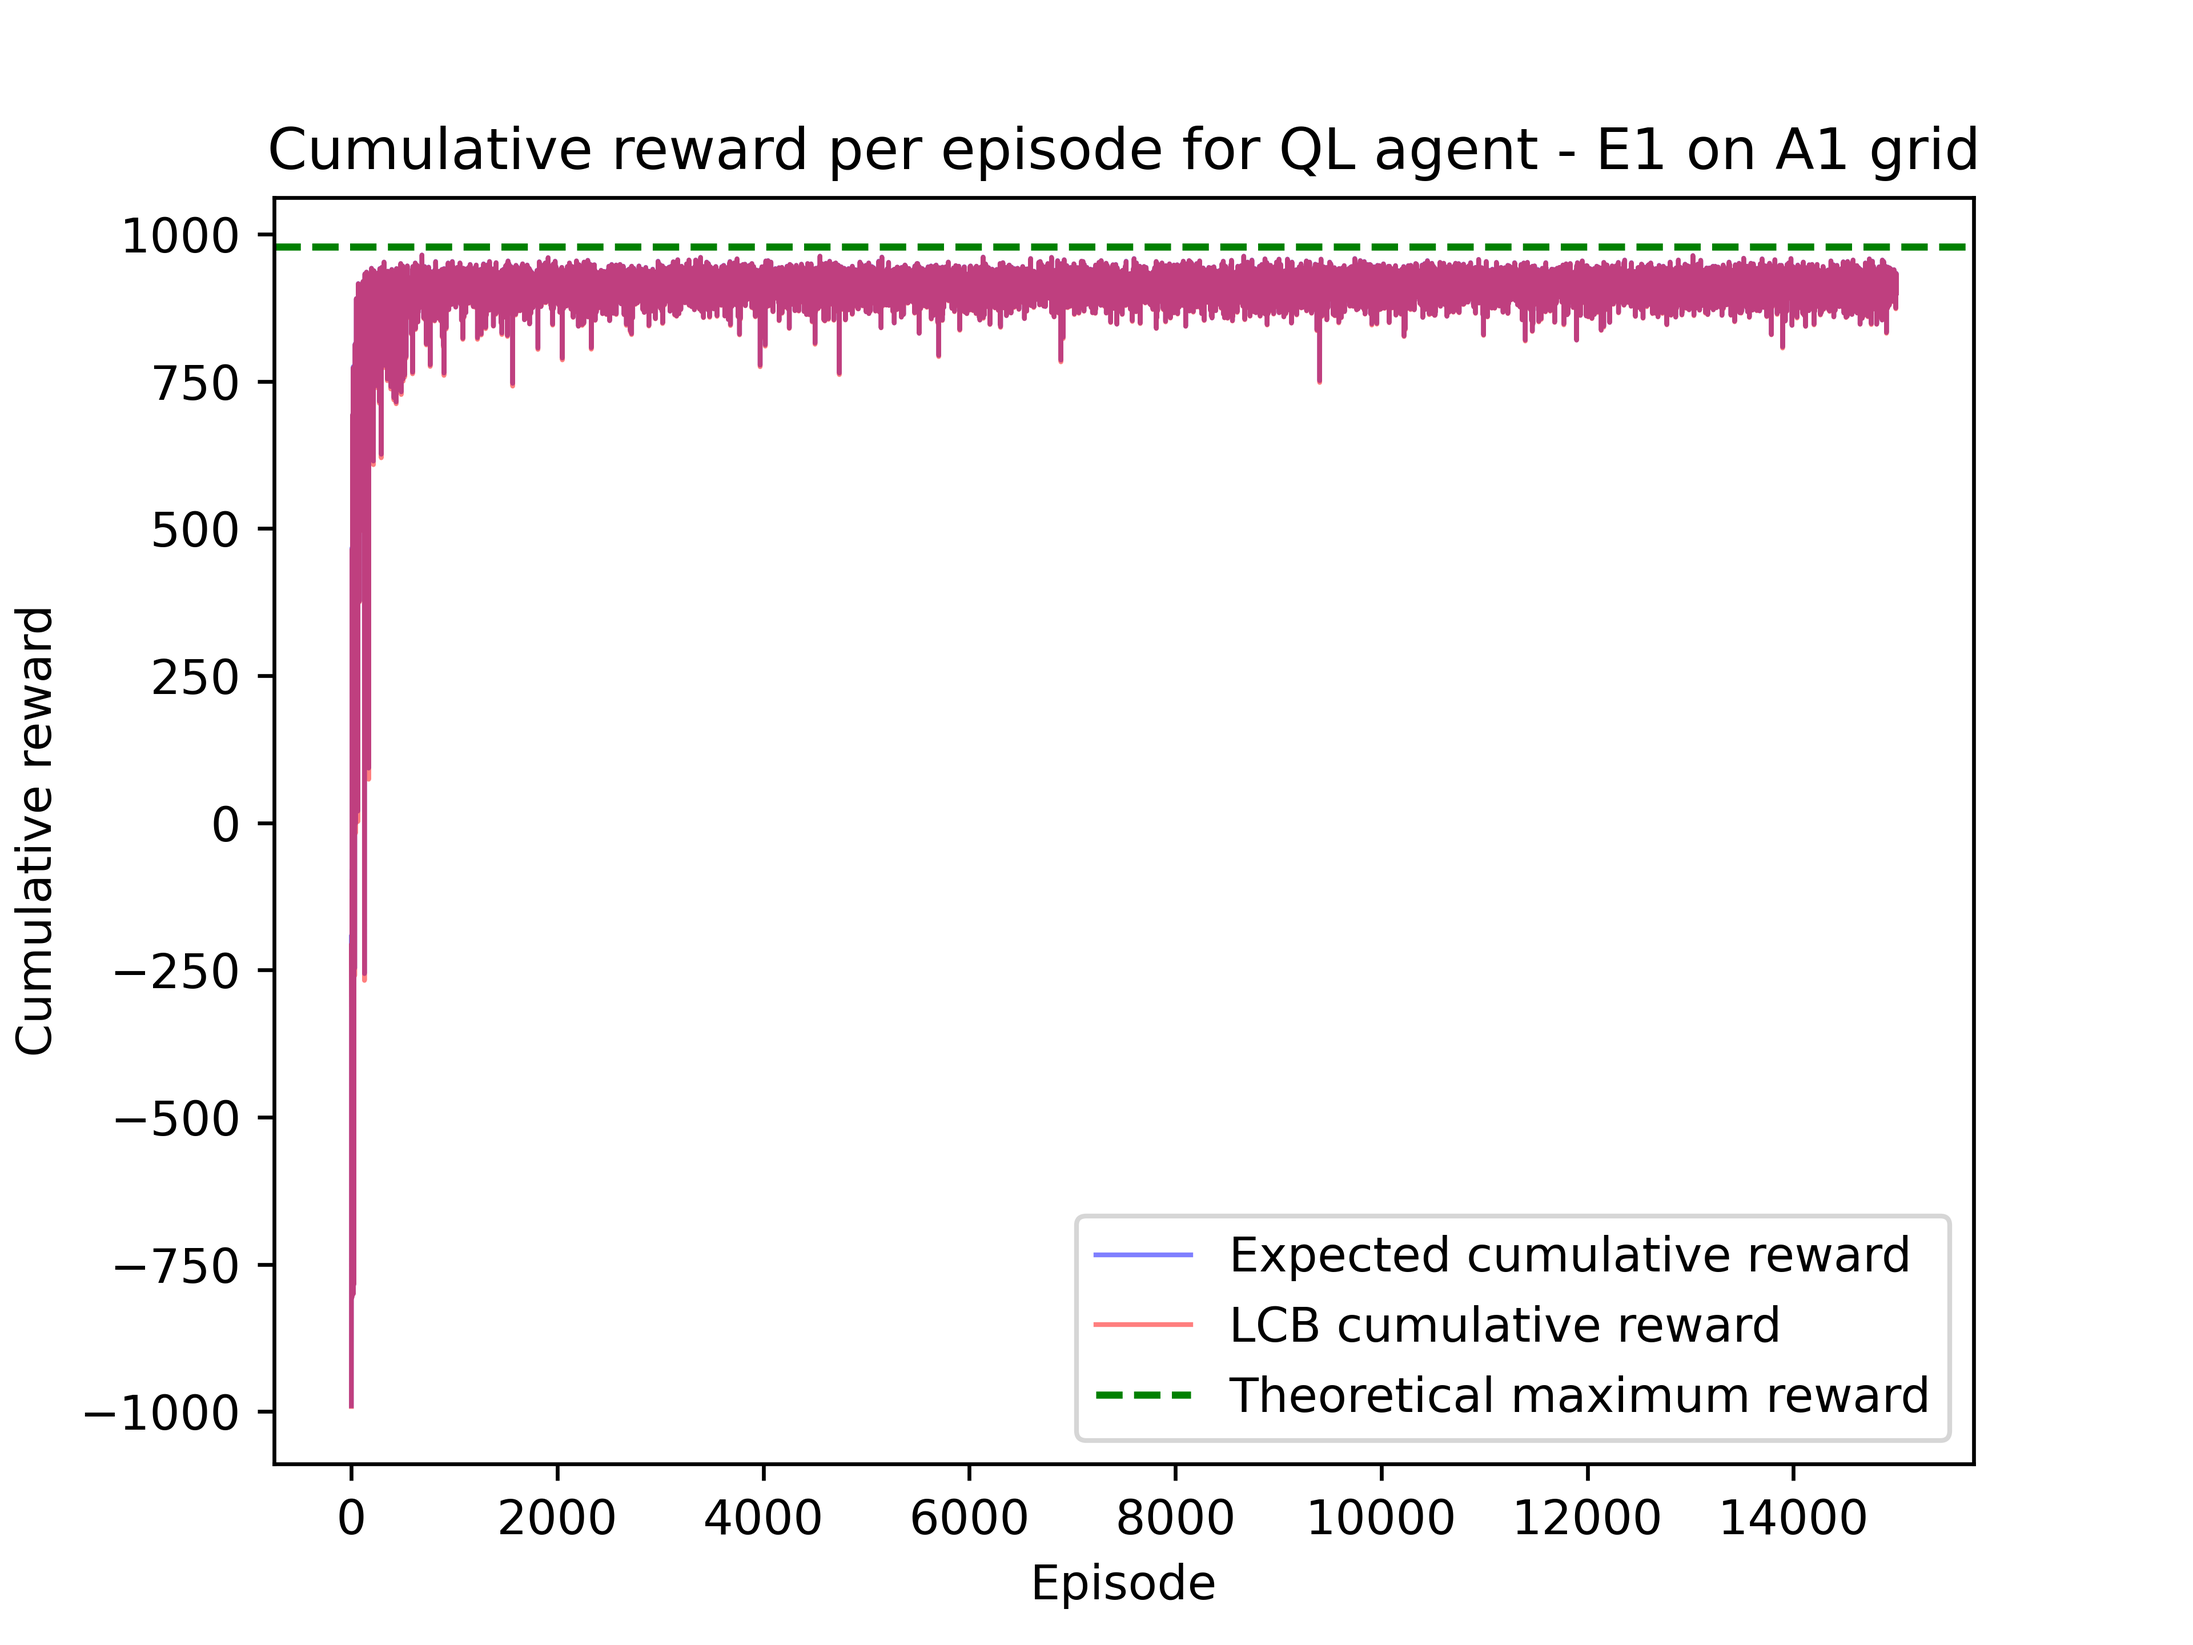
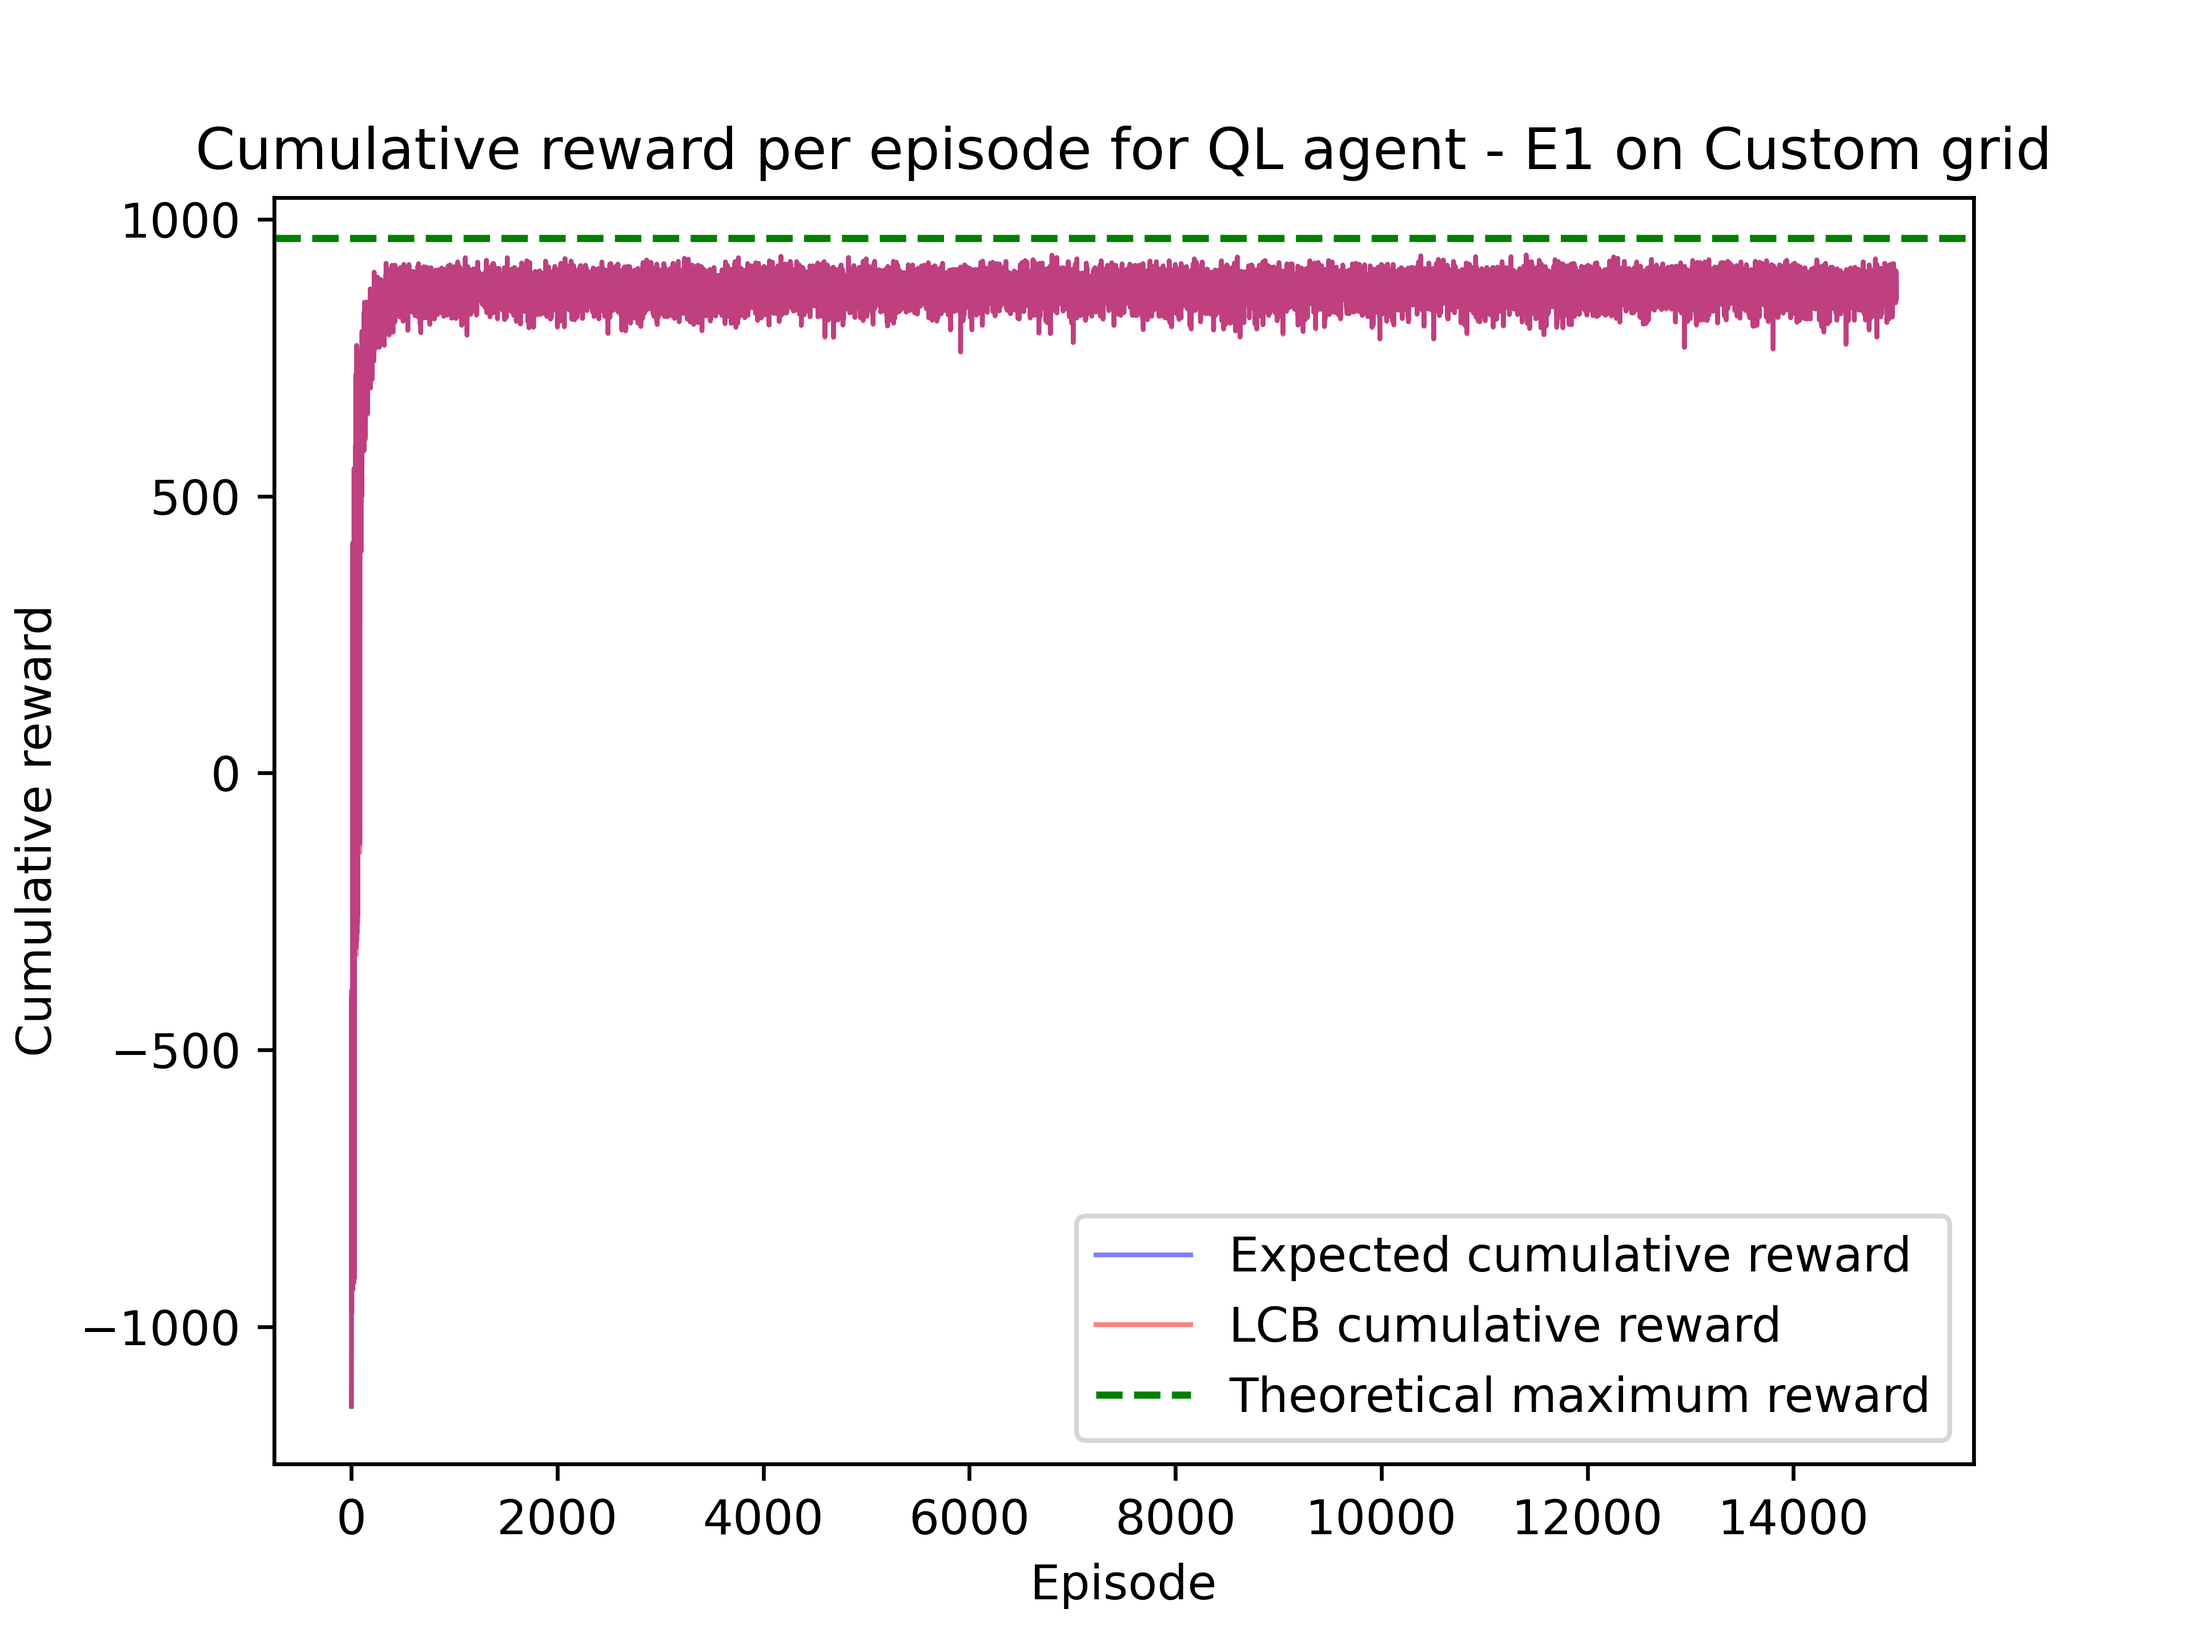
final evaluation metric file

diff --git a/evaluation_metrics.py b/evaluation_metrics.py
@@ -63,18 +63,6 @@ def run_evaluation(
         
         cumulative_rewards_for_all_episodes.append(cumulative_rewards_for_episode)
 
-    # Convert to numpy for faster computations
-    cumulative_rewards_for_all_episodes = np.array(cumulative_rewards_for_all_episodes)
-
-    # Compute per episode mean to get the expected cumulative reward
-    expected_cumulative_reward = np.mean(cumulative_rewards_for_all_episodes, axis=0) 
-
-    # Compute lower confidence bound.
-    z = 1.96
-    std = np.std(cumulative_rewards_for_all_episodes, axis=0, ddof=1)
-    half_width_interval = (z * std / np.sqrt(expected_cumulative_reward.shape[0]))
-    lower_bound_cumulative_reward = expected_cumulative_reward - half_width_interval
-
     # Minimal reward (or biggest cost is -5) --> minimal reward that could be obtained is -5 * number of steps per episode
     minimal_reward = -5 * iters
     # Maximal reward can be analytically computed for a given grid: maximal_reward = number of steps to reach the target * -1 + reward for reaching the target
@@ -93,6 +81,33 @@ def run_evaluation(
         algorithm = "QL"
     # Uppercase algorithm name, mainly for MC and DP
     algorithm = algorithm.upper()
+
+    diffs = []
+    for state, v_vals in vi_q_table.items():
+        # find best action under V
+        best_a = np.argmax(v_vals)
+        v_best = v_vals[best_a]
+        # get value of Q-table at that same action
+        if state not in q_table:
+            q_best = 0
+        else:
+            q_best = q_table[state][best_a]
+        # record absolute difference
+        diffs.append(abs(v_best - q_best))
+    # compute MAE
+    mae = np.mean(diffs)
+
+    # Convert to numpy for faster computations
+    cumulative_rewards_for_all_episodes = np.array(cumulative_rewards_for_all_episodes)
+
+    # Compute per episode mean to get the expected cumulative reward
+    expected_cumulative_reward = np.mean(cumulative_rewards_for_all_episodes, axis=0) 
+
+    # Compute lower confidence bound.
+    z = 1.96
+    std = np.std(cumulative_rewards_for_all_episodes, axis=0, ddof=1)
+    half_width_interval = (z * std / np.sqrt(expected_cumulative_reward.shape[0]))
+    lower_bound_cumulative_reward = expected_cumulative_reward - half_width_interval
 
     # Creating cumulative reward plot
     episodes = np.arange(1, cumulative_rewards_for_all_episodes.shape[1]+1)
@@ -113,8 +128,8 @@ def run_evaluation(
     max_low = np.max(lower_bound_cumulative_reward)
 
     # Saving all statistics to a CSV file
-    fieldnames = ['auc_exp', 'auc_low', 'max_exp', 'max_low', 'maximal_reward']
-    values = [auc_exp,  auc_low,  max_exp,  max_low,  maximal_reward]
+    fieldnames = ['auc_exp', 'auc_low', 'max_exp', 'max_low', 'maximal_reward', 'MAE']
+    values = [auc_exp,  auc_low,  max_exp,  max_low,  maximal_reward, mae]
     file_for_results = experiment_path + "numerical_results.csv"
     with open(file_for_results, 'w', newline='') as f:
         writer = csv.writer(f)
@@ -126,10 +141,6 @@ def run_evaluation(
     title = f"Policy heatmap for {algorithm} agent - {suffix}"
     image = plot_policy_heatmap(q_table, trained_agent.visit_counts, grid_.cells, title, show_image=False)
     image.savefig(experiment_path + "policy_heatmap.png", dpi=600)
-    # Optimal policy? Make sure that we check Q-table optimal policy on all positions of optimal path
-    # TODO: VI different approach --> how do we even evaluate this?
-    # Q-table comparison? with MAE?
-
 
 
 if __name__ == "__main__":
@@ -148,11 +159,22 @@ if __name__ == "__main__":
     else:
         print("Already in 'test' directory.")
 
+    # run_evaluation(
+    #     # Enironment-specific
+    #     grid="grid_configs/A1_grid.npy", sigma=0.02, gamma=0.9, reward_func=custom_reward_function, agent_start_pos_col=9, agent_start_pos_row=13,
+    #     # Agent-specific
+    #     algorithm="q_learning", epsilon=1, epsilon_min=0.1, delta=1e-6, alpha=0.1, episodes=15000, iters=500, early_stopping=-1,
+    #     # General to experimental setup
+    #     random_seed_full_experiment=0, number_of_repititions=2,
+    #     # Saving results
+    #     experiment_path="experimental_results/experiment_1/grid_A1/q_learning/"
+    # )
+
     run_evaluation(
         # Enironment-specific
-        grid="grid_configs/A1_grid.npy", sigma=0.02, gamma=0.9, reward_func=custom_reward_function, agent_start_pos_col=9, agent_start_pos_row=13,
+        grid="grid_configs/long_distance_narrow.npy", sigma=0.02, gamma=0.9, reward_func=custom_reward_function, agent_start_pos_col=1, agent_start_pos_row=18,
         # Agent-specific
-        algorithm="q_learning", epsilon=1, epsilon_min=0.1, delta=1e-6, alpha=0.1, episodes=15000, iters=500, early_stopping=-1,
+        algorithm="q_learning", epsilon=1, epsilon_min=0.000001, delta=1e-6, alpha=0.1, episodes=15000, iters=500, early_stopping=-1,
         # General to experimental setup
         random_seed_full_experiment=0, number_of_repititions=2,
         # Saving results
